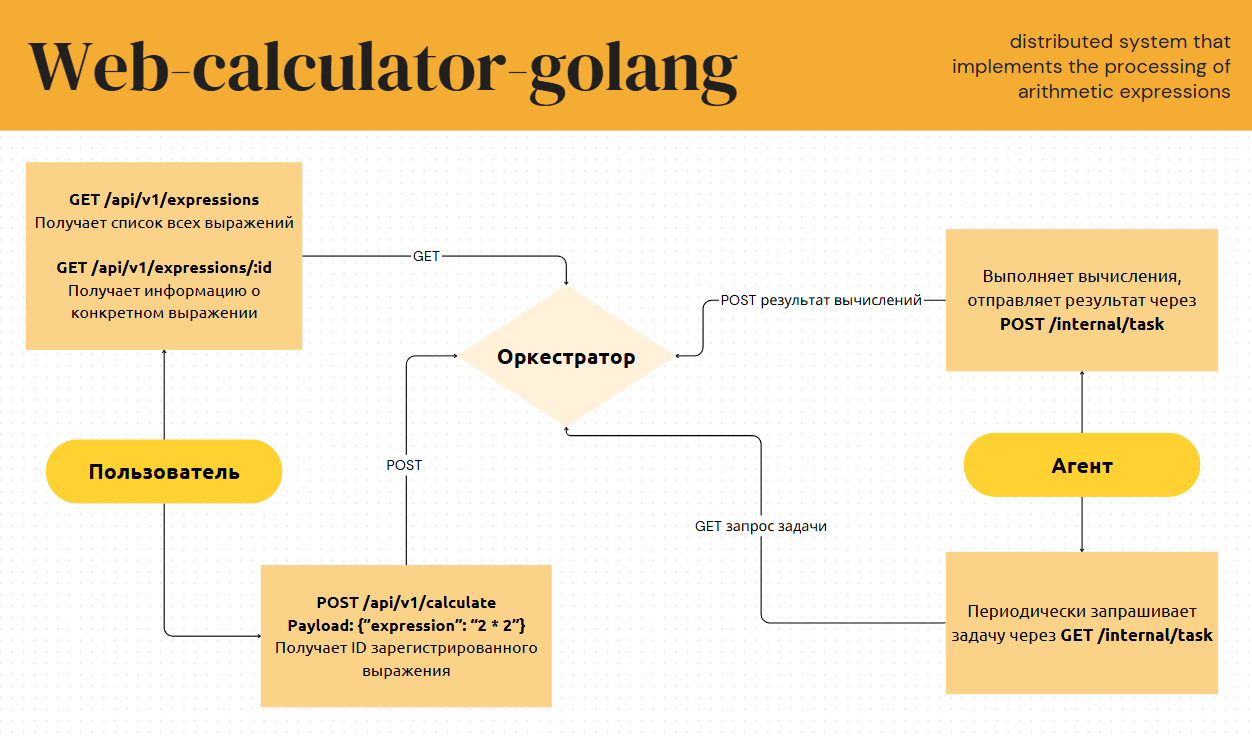
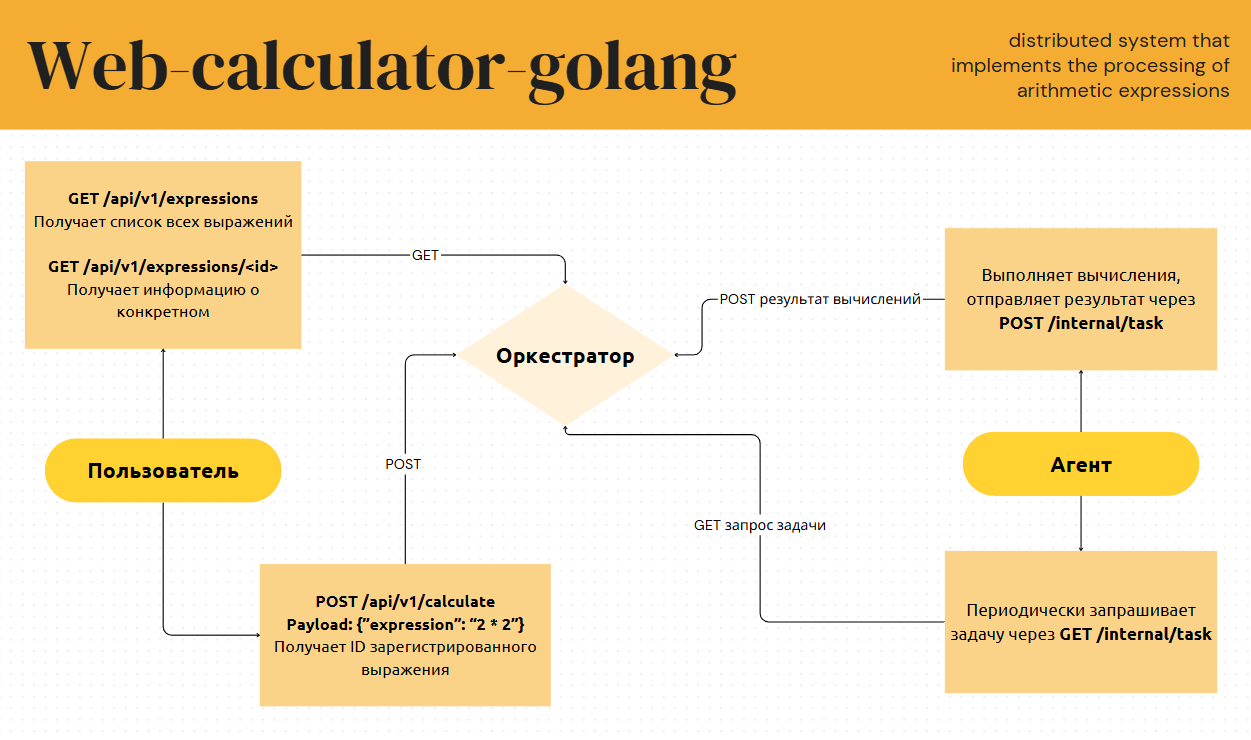
upd api

diff --git a/README.md b/README.md
@@ -51,9 +51,9 @@ git clone https://github.com/bulbosaur/web-calculator-golang
 
 Необходимо находиться в корневой директории проекта (web-calculator-golang)
 
-Для запуска каждого из двух сервисов Вам потребуется 2 отдельных терминала. Удобно открыть сплит терминалов можно с помощью горячих клавиш: ```Ctrl + Shift + 5``` (Windows/Linux) или ```Cmd + Shift + 5``` (macOS)
+Для запуска каждого из двух сервисов Вам потребуется 2 отдельных терминала. 
 
-В первом необходимо ввеси команду:
+В первом необходимо ввести команду:
 
 ```bash
 go run ./cmd/orchestrator/main.go
@@ -130,30 +130,123 @@ export WORKER_COMPUTING_POWER=1
    set WORKER_COMPUTING_POWER=1
 ```
 
-## Публичный API
+## Внешний API
 
-Базовый URL по умолчанию: ```http://localhost:8080```
+**1. Создание выражения для вычисления**
 
-| API endpoint                | Метод       | Тело запроса                  | Ответ сервера                                                                           | Код ответа |
-|-----------------------------|-------------|-------------------------------|-----------------------------------------------------------------------------------------|------------|
-| ```/api/v1/calculate```     | ```POST```  | ```{"expression": "2 * 2"}``` | ```{"id":1}```                                                                          | 200        |
-| ```/api/v1/calculate```     | ```POST```  | ```"expression": "2 * 2"```   | ```{"error":"Bad request","error_message":"invalid request body"}```                    | 400        |
-| ```/api/v1/calculate```     | ```GET```   | ```{"expression": "2 * 2"}``` | ```Method Not Allowed```                                                                | 405        |
-| ```/api/v1/expressions```   | ```GET```   |                               |```{{"id": 1, "expression": "3 - 2 / 8", "status": "done", "result": 2.75, "ErrorMessage": ""}, {"id": 2, "expression": "2+2*2", "status": "done", "result": 6, "ErrorMessage": ""},}```| 200        |
-| ```/api/v1/expressions/11```| ```GET```   |                               | ```{"id": 11, "expression": "2*2", "status": "done", "result": 4, "ErrorMessage": ""}```| 200        |
-| ```/coffee```               |             |                               | ```I'm a teapot```                                                                      | 418        |
-| ```/api/v1/tea```           |             |                               |```404 page not found```                                                                 | 404        |
+- HTTP метод: ```POST```  
+- Endpoint: ```/api/v1/calculate  ```
+- Отправляемые данные:  
+  JSON объект с полем "expression", содержащим математическое выражение.
+  
+  ```json
+  {
+    "expression": "2 * 2"
+  }
+  ```
+  
 
-### Коды ответов
+- Получаемые данные:  
+  - В случае успешного создания задания сервер возвращает JSON объект с идентификатором выражения (код ```200 OK```):
+    
+    ```json
+    {
+      "id": 1
+    }
+    ```
+    
+  - При неверном формате запроса возвращается ошибка (код ```400 Bad Request```):
+    
+    ```json
+    {
+      "error": "Bad request",
+      "error_message": "invalid request body"
+    }
+    ```
+    
+  - При использовании неподдерживаемого HTTP метода возвращается код ```405 Method Not Allowed```.
 
-- 200 - Успешный запрос
-- 400 - Некорректный запрос
-- 404 - Ресурс не найден
-- 405 - Метод не поддерживается 
-- 422 - Некорректное выражение (например, буква английского алфавита вместо цифры)
-- 500 - Внутренняя ошибка сервера
+---
 
-### Внутренний API
+**2. Получение списка всех выражений**
+
+- HTTP метод: ```GET```  
+- Endpoint: ```/api/v1/expressions ``` 
+- Отправляемые данные:  
+  Запрос не содержит тела.
+
+- Получаемые данные:  
+  - В случае успешного выполнения запроса сервер возвращает массив JSON объектов, содержащих информацию о выражениях (код ```200 OK```):
+    
+    ```json
+    {
+      {
+        "id": 1, 
+        "expression": "3 - 2 / 8", 
+        "status": "done", 
+        "result": 2.75, 
+        "ErrorMessage": ""
+      }, 
+      {
+        "id": 2, 
+        "expression": "2+2*2", 
+        "status": "done", 
+        "result": 6, 
+        "ErrorMessage": ""
+      }
+    }
+    ```
+    
+
+---
+
+**3. Получение информации о конкретном выражении**
+
+- HTTP метод: ```GET```  
+- Endpoint: ```/api/v1/expressions/<id>```  
+  Где ```<id>``` - идентификатор выражения, например, ```/api/v1/expressions/11```
+
+- Отправляемые данные:  
+  Запрос не содержит тела.
+
+- Получаемые данные:  
+  - В случае успешного выполнения запроса сервер возвращает JSON объект с информацией о запрошенном выражении (код ```200 OK```):
+    
+    ```json
+    {
+      "id": 11, 
+      "expression": "2*2", 
+      "status": "done", 
+      "result": 4, 
+      "ErrorMessage": ""
+    }
+    ```
+    
+
+---
+
+```4. Кофе брейк```
+
+- HTTP метод: Любой  
+- Endpoint: ```/coffee ``` 
+- Отправляемые данные:  
+  Запрос не содержит тела.
+
+- Получаемые данные:  
+  - Сервер возвращает сообщение ```"I'm a teapot"``` с кодом ответа``` 418 I'm a teapot```.
+
+---
+
+**5. Любой другой несуществующий путь**
+
+- HTTP метод: Любой  
+- Endpoint: ```/api/v1/tea``` (пример)  
+- Отправляемые данные:  
+  Запрос не содержит тела.
+
+- Получаемые данные:  
+  - Сервер возвращает сообщение ```"404 page not found"``` с кодом ответа ```404 Not Found```.
+## Внутренний API
 
 **1. Получение задания (агент → оркестратор)**
 
@@ -164,22 +257,21 @@ export WORKER_COMPUTING_POWER=1
 
 - **Получаемые данные:**  
   - В случае успешного выполнения запроса сервер возвращает JSON объект с заданием, который выглядит примерно так:
-    ```json
+```json
     {
-      "task": {
-        "id": 1,
-        "expressionID": 123,
-        "arg1": 3.0,
-        "arg2": 5.0,
-        "prev_task_id1": 0,
-        "prev_task_id2": 0,
-        "operation": "+",
-        "status": "wait",
-        "result": 0.0,
-        "error_message": ""
-      }
+    "task": {
+        "ID": 2939,
+        "ExpressionID": 106,
+        "Arg1": 2,
+        "Arg2": 8,
+        "PrevTaskID1": 0,
+        "PrevTaskID2": 0,
+        "Operation": "/",
+        "Status": "awaiting processing",
+        "Result": 0
     }
-    ```
+}
+```
   - Если заданий для обработки нет, сервер возвращает HTTP статус 404 (Not Found).
   - Если происходит внутренняя ошибка, возвращается HTTP статус 500 (Internal Server Error).
 
